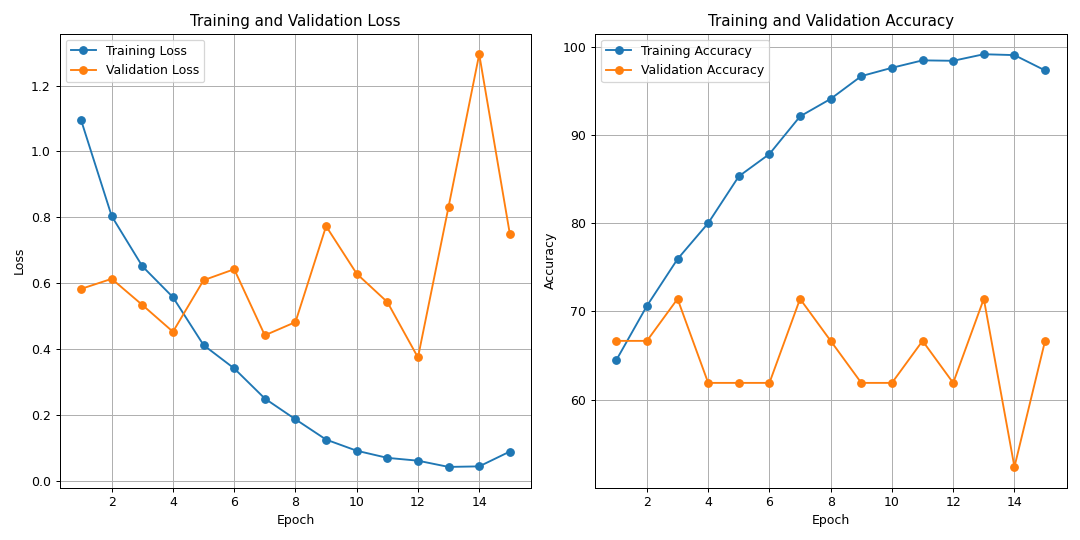
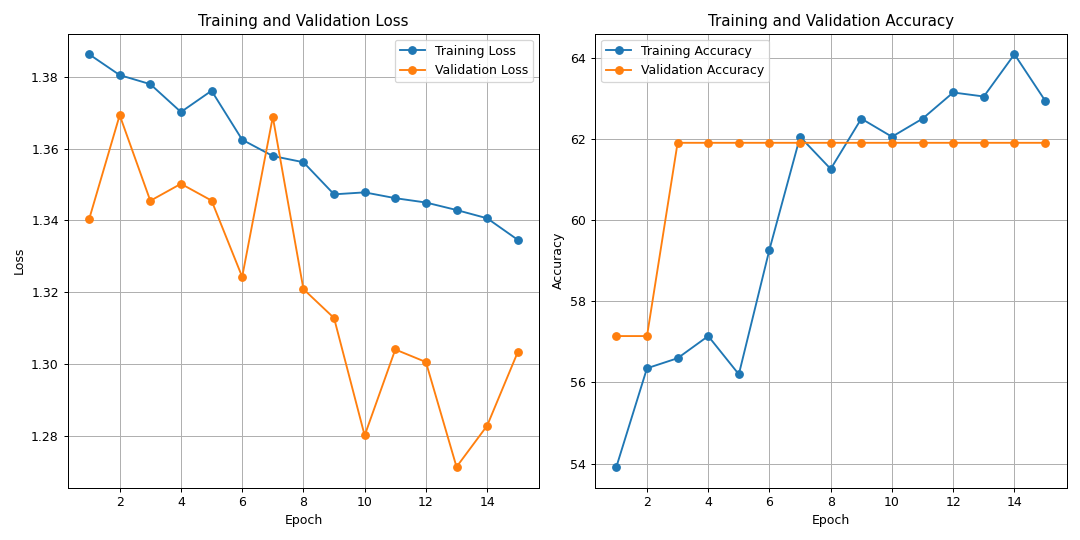
bert pretrained

diff --git a/bert_predefined_classifier.py b/bert_predefined_classifier.py
@@ -1,10 +1,9 @@
 import torch
-from transformers import BertForSequenceClassification, BertTokenizer
+from transformers import BertForSequenceClassification, BertTokenizer, AdamW
 from torch.utils.data import DataLoader, TensorDataset
 from sklearn.model_selection import train_test_split
-from sklearn.metrics import accuracy_score
-import numpy as np
 from tqdm import tqdm
+from sklearn.preprocessing import LabelEncoder
 import matplotlib.pyplot as plt
 import os
 
@@ -13,186 +12,155 @@ from dataloader import load_and_preprocess_data
 device = torch.device("cuda:0" if torch.cuda.is_available() else "cpu")
 print(device)
 
-path_to_model = './models/bert_amazon_food_review/'
+path_to_model = './models/bert_amazon_food_review222_drive'
 path_to_file = "./dataset/" + "test.txt"
 
-texts, labels = load_and_preprocess_data(path_to_file)
+path = path_to_file
+#path = './drive/MyDrive/TwitterSentimentAnalysis/finefoods.txt'
+# Initialize empty lists to store scores and texts
+scores = []
+texts = []
 
-# Define hyperparameters
-MAX_SEQ_LENGTH = 128
-BATCH_SIZE = 32
-LEARNING_RATE = 2e-5  # Adjusted learning rate for BERT
-EPOCHS = 15
+# Open and read the file
+with open(path, 'r', encoding='utf-8') as file:
+    lines = file.readlines()
 
-# Load a pre-trained BERT tokenizer and model
+# Initialize variables to store temporary data
+current_score = None
+current_text = []
+
+# Process each line in the file
+for line in lines:
+    line = line.strip()
+
+    # If the line starts with "review/score:", extract the score
+    if line.startswith('review/score:'):
+        current_score = float(line.split(': ')[1])
+    # If the line starts with "review/text:", extract the text
+    elif line.startswith('review/text:'):
+        current_text.append(line.split(': ')[1])
+    # If the line is empty, it indicates the end of a review block
+    elif not line:
+        # Join the lines of the review text and append to the texts list
+        if current_score is not None and current_text:
+            scores.append(current_score)
+            texts.append(' '.join(current_text))
+
+        # Reset variables for the next review
+        current_score = None
+        current_text = []
+
+# Now you have the review scores in the 'scores' list and the review texts in the 'texts' list
+# Printing the first 5 review scores and texts
+for i in range(5):
+    print(f"Review {i + 1} - Score: {scores[i]}, Text: {texts[i]}\n")
+print(len(scores))
+print(len(texts))
+
+
 tokenizer = BertTokenizer.from_pretrained('bert-base-uncased')
-bert_model = BertForSequenceClassification.from_pretrained('bert-base-uncased', num_labels=5).to(device)
-print(bert_model)
 
-# Tokenize and pad sequences
-def tokenize_and_pad(texts, tokenizer, max_length):
-    input_ids = []
-    attention_masks = []
-    for text in texts:
-        encoded = tokenizer.encode_plus(
-            text,
-            add_special_tokens=True,
-            max_length=max_length,
-            padding='max_length',
-            return_tensors='pt',
-            return_attention_mask=True,
-            truncation=True,
-        ).to(device) 
-        input_ids.append(encoded['input_ids'])
-        attention_masks.append(encoded['attention_mask'])
-    return torch.cat(input_ids, dim=0), torch.cat(attention_masks, dim=0)
+# Load the pretrained BERT model and tokenizer
+#tokenizer = BertTokenizer.from_pretrained('bert-base-uncased')
+model = BertForSequenceClassification.from_pretrained('bert-base-uncased', num_labels=6)
+model = model.to(device)
 
-# Split data into training, validation, and test sets
-X_train, X_temp, y_train, y_temp = train_test_split(texts, labels, test_size=0.02, random_state=42)
-X_val, X_test, y_val, y_test = train_test_split(X_temp, y_temp, test_size=0.5, random_state=42)
 
-X_train_ids, X_train_masks = tokenize_and_pad(X_train, tokenizer, MAX_SEQ_LENGTH)
-X_val_ids, X_val_masks = tokenize_and_pad(X_val, tokenizer, MAX_SEQ_LENGTH)
-X_test_ids, X_test_masks = tokenize_and_pad(X_test, tokenizer, MAX_SEQ_LENGTH)
+# Tokenize your text data and pad or truncate to a consistent length
+max_length = 128  # Adjust the maximum sequence length as needed
 
-# Create DataLoader for training and validation
-train_data = TensorDataset(X_train_ids.to(device), X_train_masks.to(device), torch.tensor(y_train, dtype=torch.long).to(device))
-train_loader = DataLoader(train_data, batch_size=BATCH_SIZE, shuffle=True)
+tokenized_texts = [tokenizer(
+    text,
+    padding='max_length',  # Pad to the specified max length
+    truncation=True,        # Truncate if the text exceeds max length
+    max_length=max_length,
+    return_tensors='pt'
+) for text in texts]
 
-val_data = TensorDataset(X_val_ids.to(device), X_val_masks.to(device), torch.tensor(y_val, dtype=torch.long).to(device))
-val_loader = DataLoader(val_data, batch_size=BATCH_SIZE)
+# Convert sentiment scores to labels (assuming 6 sentiment classes)
+label_encoder = LabelEncoder()
+labels = label_encoder.fit_transform(scores)
 
-# Initialize the optimizer and criterion
-optimizer = torch.optim.AdamW(bert_model.parameters(), lr=LEARNING_RATE)
-criterion = torch.nn.CrossEntropyLoss().to(device)
+# Combine tokenized inputs into tensors
+input_ids = torch.cat([text['input_ids'] for text in tokenized_texts], dim=0).to(device)
+attention_mask = torch.cat([text['attention_mask'] for text in tokenized_texts], dim=0).to(device)
+labels = torch.tensor(labels).to(device)
 
-# Initialize lists to store training and validation losses and accuracies
-train_losses = []
-validation_losses = []
-train_accuracies = []
-validation_accuracies = []
+# Split the data into train and validation sets
+train_inputs, val_inputs, train_masks, val_masks, train_labels, val_labels = train_test_split(
+    input_ids, attention_mask, labels, test_size=0.2, random_state=420
+)
 
-# Early stopping variables
-best_val_loss = float('inf')  # Initialize with a large value
-patience = 5  # Number of epochs to wait for improvement
-wait = 0  # Counter for consecutive epochs without improvement
+# Create data loaders for training and validation data
+batch_size = 64  # Adjust the batch size as needed
+train_dataset = TensorDataset(train_inputs, train_masks, train_labels)
+train_data_loader = DataLoader(train_dataset, batch_size=batch_size, shuffle=True)
+
+val_dataset = TensorDataset(val_inputs, val_masks, val_labels)
+val_data_loader = DataLoader(val_dataset, batch_size=batch_size)
+
+# Define optimizer and loss function
+optimizer = AdamW(model.parameters(), lr=1e-5)
+loss_fn = torch.nn.CrossEntropyLoss()
+
+# ... (previous code)
 
 # Training loop
-for epoch in range(EPOCHS):
-    bert_model.train()
+num_epochs = 10  # Adjust the number of epochs as needed
+print_every = 100  # Print training loss every `print_every` steps
+
+for epoch in range(num_epochs):
+    print(f"Epoch {epoch + 1}/{num_epochs}")
+
+    # Training loop
+    model.train()
     total_loss = 0
-    correct_train = 0
-    total_train = 0
-    
-    for batch in tqdm(train_loader, desc=f"Epoch {epoch + 1}/{EPOCHS}"):
-        input_ids, attention_mask, labels = batch
+
+    # Wrap the data loader with tqdm
+    for step, batch in enumerate(tqdm(train_data_loader, desc="Training")):
         optimizer.zero_grad()
-        outputs = bert_model(input_ids, attention_mask=attention_mask, labels=labels)
+        input_ids = batch[0]
+        attention_mask = batch[1]
+        labels = batch[2]
+        outputs = model(input_ids, attention_mask=attention_mask, labels=labels)
         loss = outputs.loss
         loss.backward()
         optimizer.step()
+
         total_loss += loss.item()
-        
-        # Calculate training accuracy
-        _, predicted = torch.max(outputs.logits, 1)
-        total_train += labels.size(0)
-        correct_train += (predicted == labels).sum().item()
 
-    # Calculate and print average loss and accuracy for this epoch
-    avg_loss = total_loss / len(train_loader)
-    train_accuracy = 100 * correct_train / total_train
-    
-    print(f"Epoch {epoch + 1}/{EPOCHS}")
-    print(f"Training loss: {avg_loss:.4f}, Training Accuracy: {train_accuracy:.2f}%")
-    
-    train_losses.append(avg_loss)
-    train_accuracies.append(train_accuracy)
+        if (step + 1) % print_every == 0:
+            avg_loss = total_loss / (step + 1)
+            print(f"Step {step + 1}/{len(train_data_loader)} - Loss: {avg_loss:.4f}")
 
-    # Evaluation on the validation set
-    bert_model.eval()
-    correct_val = 0
-    total_val = 0
-    with torch.no_grad():
-        for batch in val_loader:
-            input_ids, attention_mask, labels = batch
-            outputs = bert_model(input_ids, attention_mask=attention_mask)
-            predictions = torch.argmax(outputs.logits, dim=1)
-            total_val += labels.size(0)
-            correct_val += (predictions == labels).sum().item()
+    avg_train_loss = total_loss / len(train_data_loader)
+    print(f"Average training loss: {avg_train_loss:.4f}")
 
-    # Calculate accuracy on the validation set
-    accuracy = 100 * correct_val / total_val
-    validation_accuracies.append(accuracy)
+    # Validation loop
+    model.eval()
+    val_loss = 0
+    correct_predictions = 0
+    total_samples = 0
+    for batch in val_data_loader:
+        with torch.no_grad():
+            input_ids = batch[0]
+            attention_mask = batch[1]
+            labels = batch[2]
+            outputs = model(input_ids, attention_mask=attention_mask, labels=labels)
+            loss = outputs.loss
 
-    # Calculate and store validation loss
-    bert_model.train()
-    total_val_loss = 0
-    for val_batch in DataLoader(TensorDataset(X_test_ids.to(device), X_test_masks.to(device), torch.tensor(y_test, dtype=torch.long).to(device)), batch_size=BATCH_SIZE):
-        val_input_ids, val_attention_mask, val_labels = val_batch
-        val_outputs = bert_model(val_input_ids, val_attention_mask)
-        val_loss = criterion(val_outputs.logits, val_labels)
-        total_val_loss += val_loss.item()
-    
-    avg_val_loss = total_val_loss / len(DataLoader(TensorDataset(X_test_ids, X_test_masks, torch.tensor(y_test, dtype=torch.long).to(device)), batch_size=BATCH_SIZE))
-    validation_losses.append(avg_val_loss)
+            val_loss += loss.item()
 
-    print(f"Validation loss: {avg_val_loss:.4f}, Validation Accuracy: {accuracy:.2f}%")
+            # Calculate accuracy
+            logits = outputs.logits
+            predicted_labels = torch.argmax(logits, dim=1)
+            correct_predictions += (predicted_labels == labels).sum().item()
+            total_samples += len(labels)
 
-    # Early stopping check
-    if avg_val_loss < best_val_loss:
-        best_val_loss = avg_val_loss
-        wait = 0  # Reset the wait counter since there's improvement
-        # Save model
-        bert_model.save_pretrained(path_to_model)
+    avg_val_loss = val_loss / len(val_data_loader)
+    val_accuracy = correct_predictions / total_samples * 100
+    print(f"Validation loss: {avg_val_loss:.4f} - Validation accuracy: {val_accuracy:.2f}%")
+    # Save the fine-tuned model
+    model.save_pretrained(path_to_model)
 
-    else:
-        wait += 1
-        if wait >= patience:
-            print(f"Early stopping after {epoch + 1} epochs without improvement.")
-            break  # Stop training
-
-# Load the best model from the saved checkpoint
-bert_model = BertForSequenceClassification.from_pretrained(path_to_model, num_labels=5).to(device)
-
-# Evaluate the model on the test set
-bert_model.eval()
-correct_test = 0
-total_test = 0
-with torch.no_grad():
-    for batch in DataLoader(TensorDataset(X_test_ids, X_test_masks, torch.tensor(y_test, dtype=torch.long).to(device)), batch_size=BATCH_SIZE):
-        input_ids, attention_mask, labels = batch
-        outputs = bert_model(input_ids, attention_mask=attention_mask)
-        predictions = torch.argmax(outputs.logits, dim=1)
-        total_test += labels.size(0)
-        correct_test += (predictions == labels).sum().item()
-
-# Calculate accuracy on the test set
-test_accuracy = 100 * correct_test / total_test
-print(f"Test Accuracy: {test_accuracy:.2f}%")
-
-# Plot the training and validation loss and accuracy
-plt.figure(figsize=(12, 6))
-
-# Loss Plot
-plt.subplot(1, 2, 1)
-plt.plot(range(1, len(train_losses) + 1), train_losses, label='Training Loss', marker='o')
-plt.plot(range(1, len(validation_losses) + 1), validation_losses, label='Validation Loss', marker='o')
-plt.xlabel('Epoch')
-plt.ylabel('Loss')
-plt.legend()
-plt.title('Training and Validation Loss')
-plt.grid(True)
-
-# Accuracy Plot
-plt.subplot(1, 2, 2)
-plt.plot(range(1, len(train_accuracies) + 1), train_accuracies, label='Training Accuracy', marker='o')
-plt.plot(range(1, len(validation_accuracies) + 1), validation_accuracies, label='Validation Accuracy', marker='o')
-plt.xlabel('Epoch')
-plt.ylabel('Accuracy')
-plt.legend()
-plt.title('Training and Validation Accuracy')
-plt.grid(True)
-
-plt.tight_layout()
-plt.savefig("BERT.png", dpi=90)
-plt.show()
+# After training, you can save or deploy the fine-tuned model for inference
